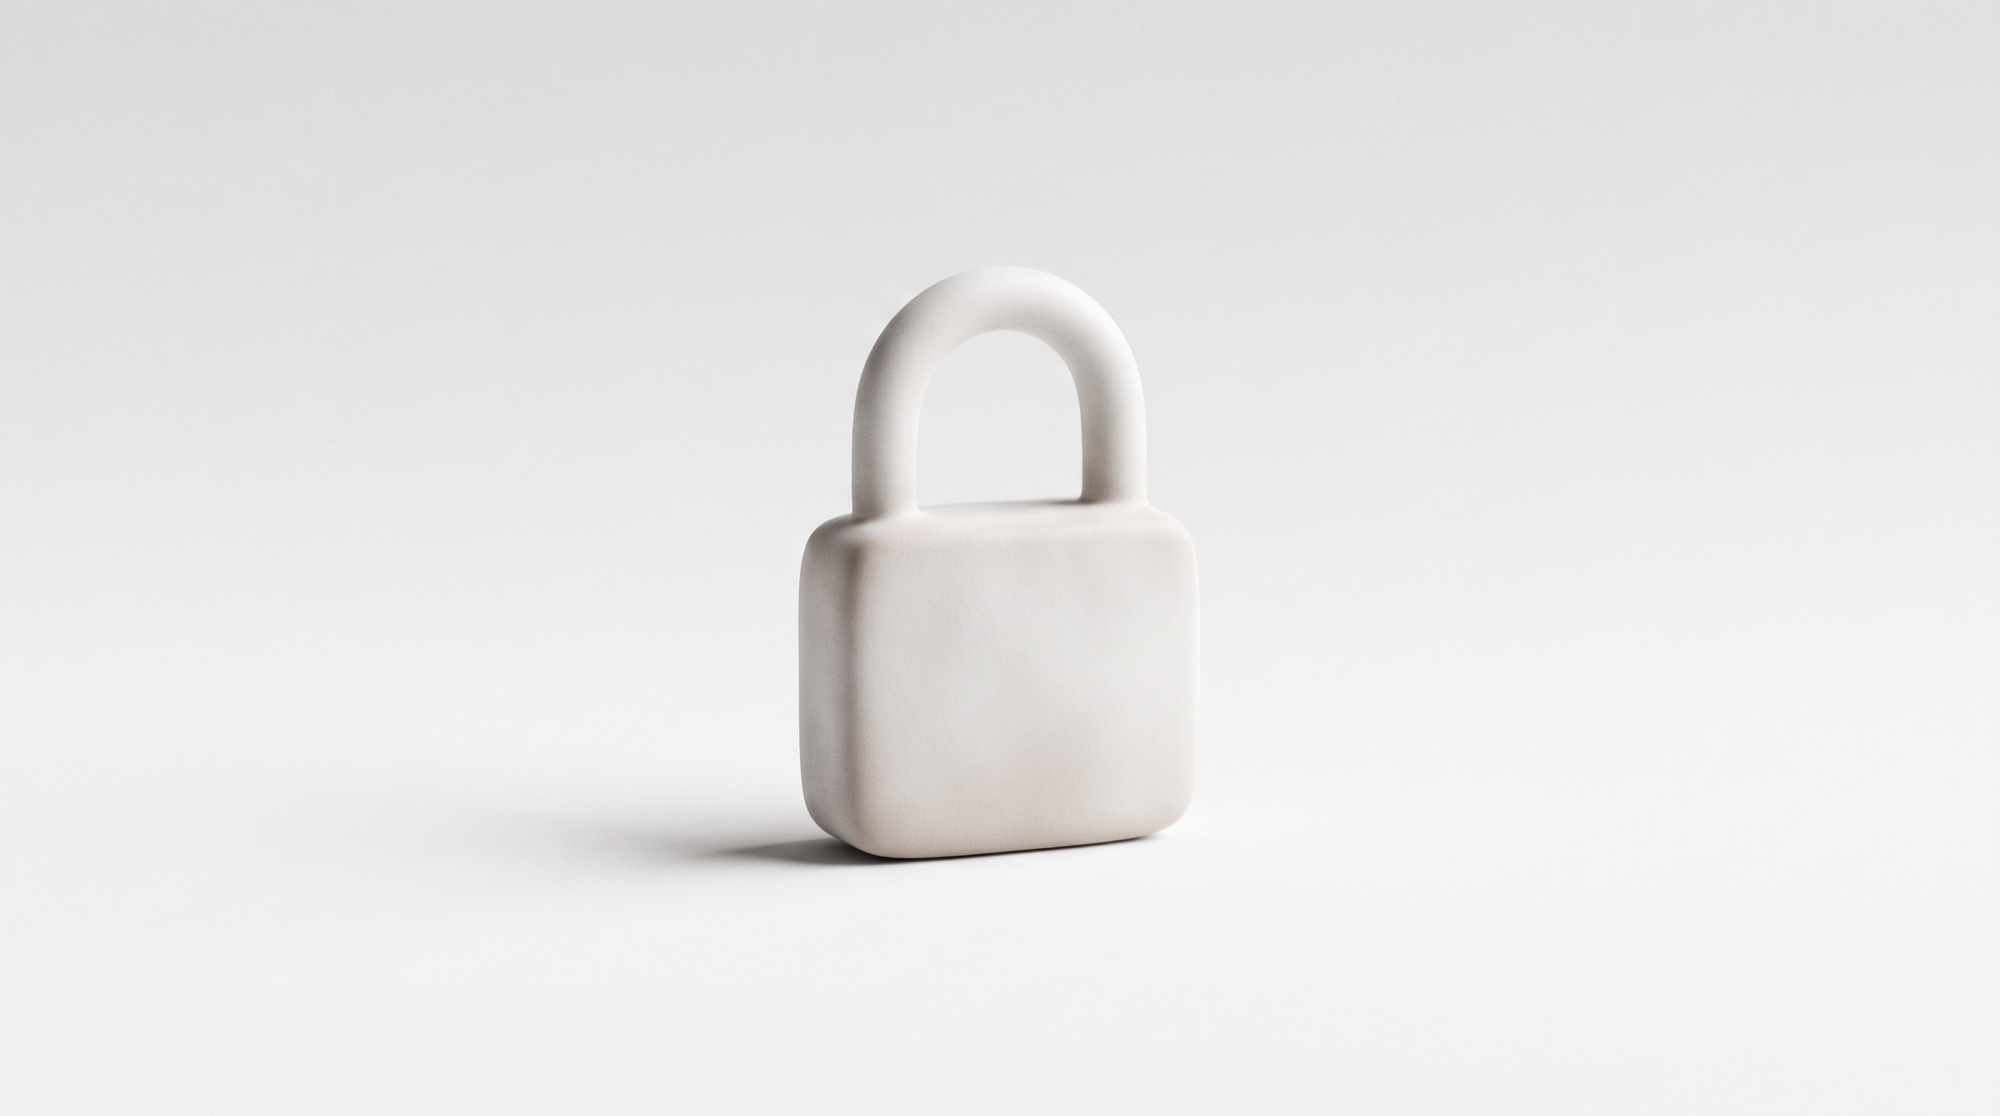
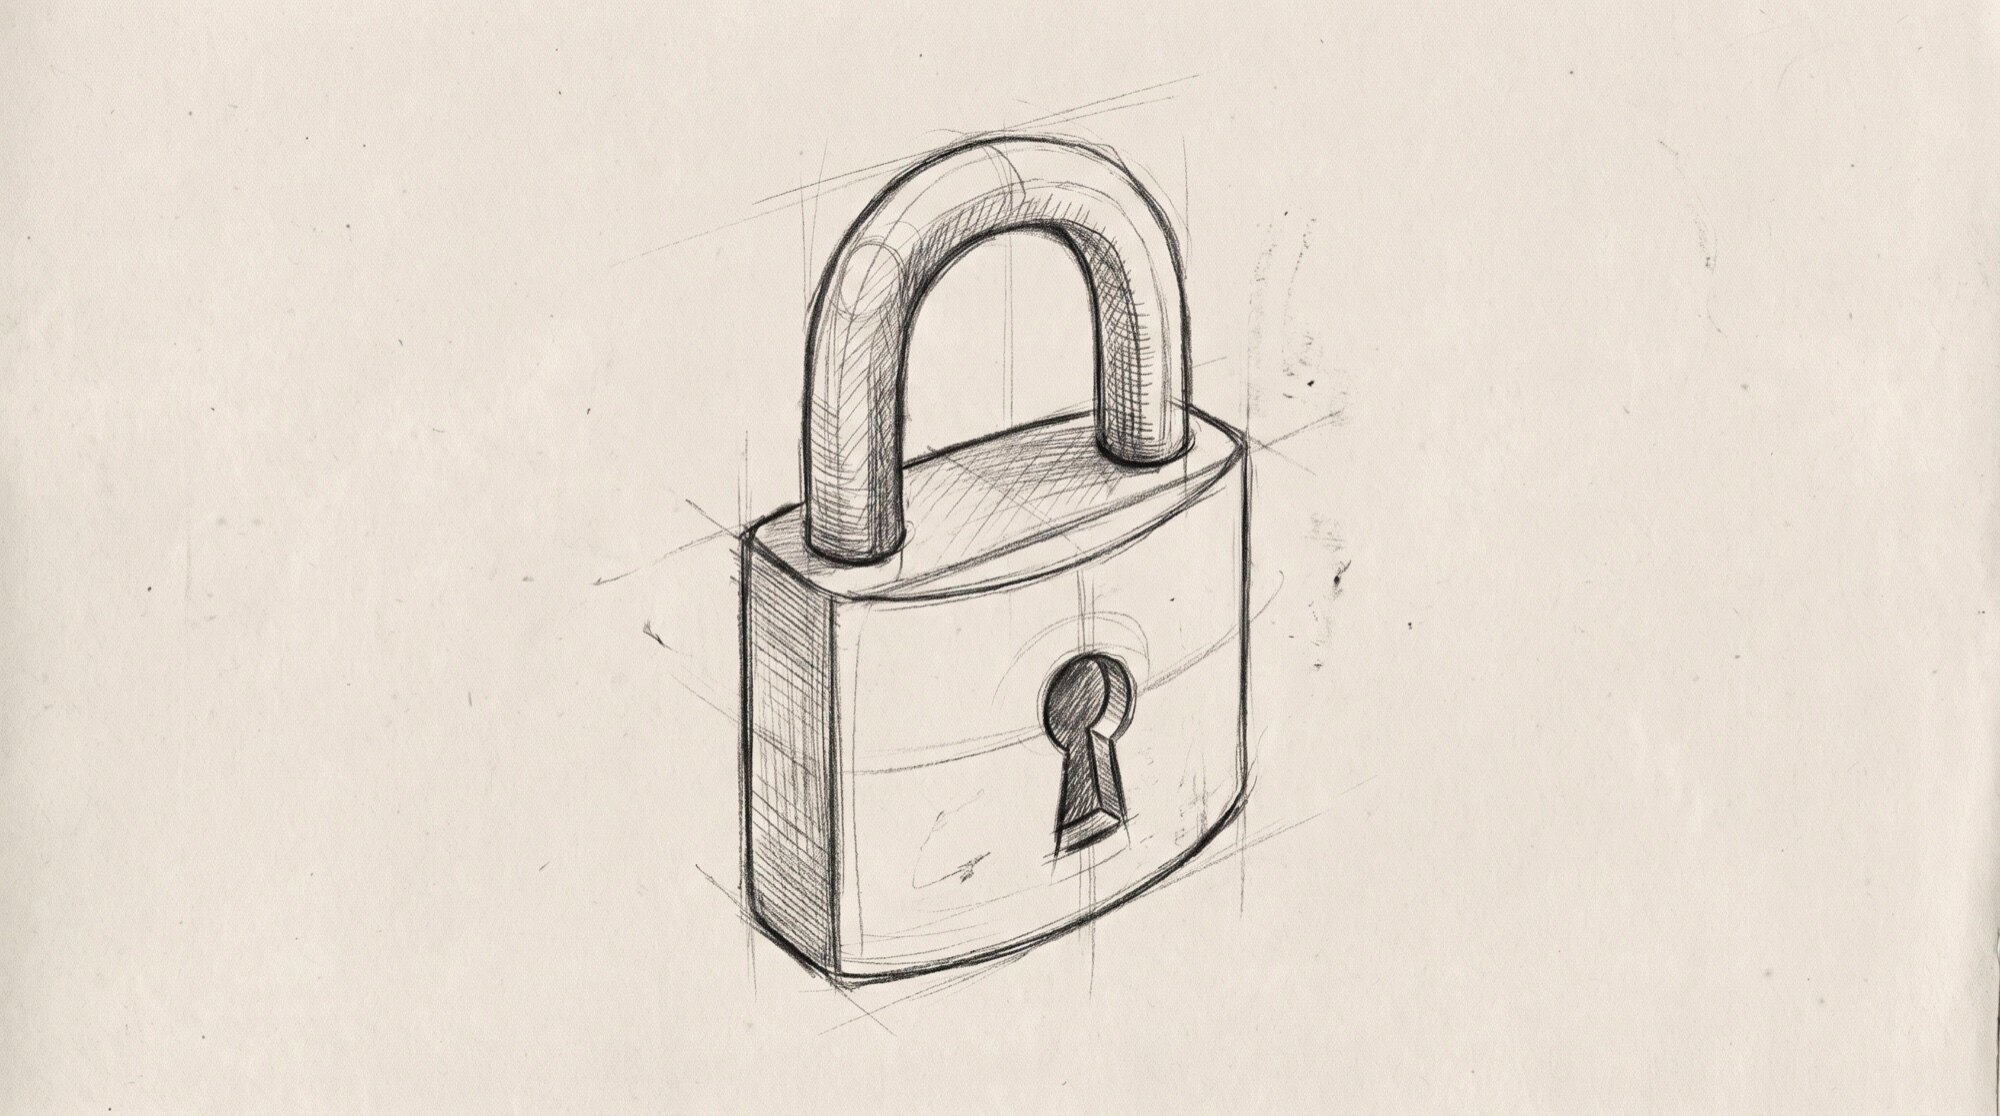
Complete the sketch series: all nine case cards and the product hero
Five more thumbnails — clapperboard with storyboard frames (ad creative), a
floating browser wireframe (premium websites), a calendar with a clock
(booking systems), a rocket on a pad (MVP team), meshed gears (automations) —
plus the product hero redone as a 16:9 padlock sketch, so the 3D render that
started the series is gone and every image on the site is graphite on paper.
One batch of six, no redos. 12 credits.

Paper tone was the one inconsistency: measured mean brightness ran from 0.69
to 0.89 across the set, and the two darkest (padlock, gears) read as a
mistake in the grid rather than as texture. Levelled those plus the two
mildly low ones to a 0.865 target with a highlight-only stretch — graphite
stays where it was, only the paper lifts. Cheaper and more predictable than
regenerating.

Alt text updated for the sketch hero in both locales. Nine of nine cards now
carry artwork; the placeholder fallback stays in workImages.ts for any future
card.

Claude-Session: https://claude.ai/code/session_015TZG4mkACGm2KFx9bcmAAp

diff --git a/src/components/agency/workImages.ts b/src/components/agency/workImages.ts
@@ -2,16 +2,27 @@ import type { StaticImageData } from "next/image";
 import privateAi from "./assets/work-private-ai.jpg";
 import messagingBots from "./assets/work-messaging-bots.jpg";
 import websiteSupport from "./assets/work-website-support.jpg";
+import adCreative from "./assets/work-ad-creative.jpg";
+import premiumWebsites from "./assets/work-premium-websites.jpg";
+import bookingSystems from "./assets/work-booking-systems.jpg";
 import secondBrain from "./assets/work-second-brain.jpg";
+import mvpTeam from "./assets/work-mvp-team.jpg";
+import automations from "./assets/work-automations.jpg";
 
 /**
  * Case-study thumbnails, keyed by the card's `id` in the dictionaries. A card
- * with no entry renders the abstract placeholder, so the series can be filled
- * in one image at a time. Style: pencil sketch on light paper, graphite only.
+ * with no entry falls back to the abstract placeholder. Style: pencil sketch
+ * on light paper, graphite only — generated with Higgsfield, one object per
+ * concept, same prompt scaffold so they read as a series.
  */
 export const workImages: Record<string, StaticImageData> = {
   "private-ai": privateAi,
   "messaging-bots": messagingBots,
   "website-support": websiteSupport,
+  "ad-creative": adCreative,
+  "premium-websites": premiumWebsites,
+  "booking-systems": bookingSystems,
   "second-brain": secondBrain,
+  "mvp-team": mvpTeam,
+  automations,
 };
